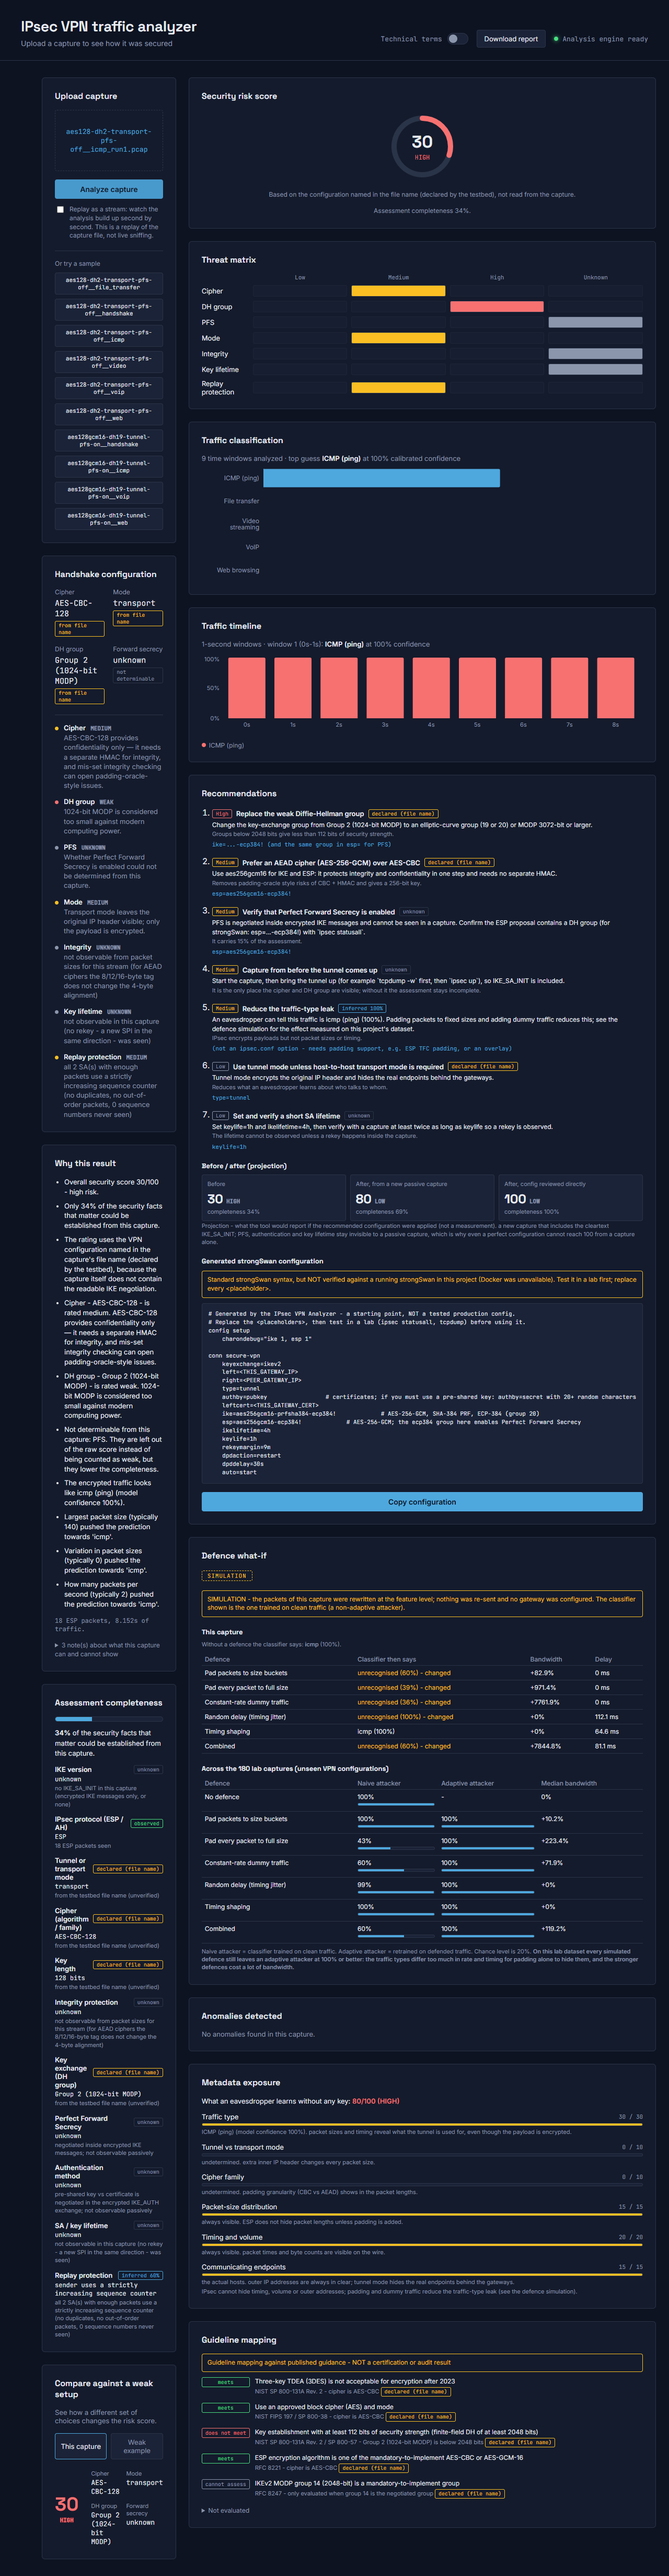
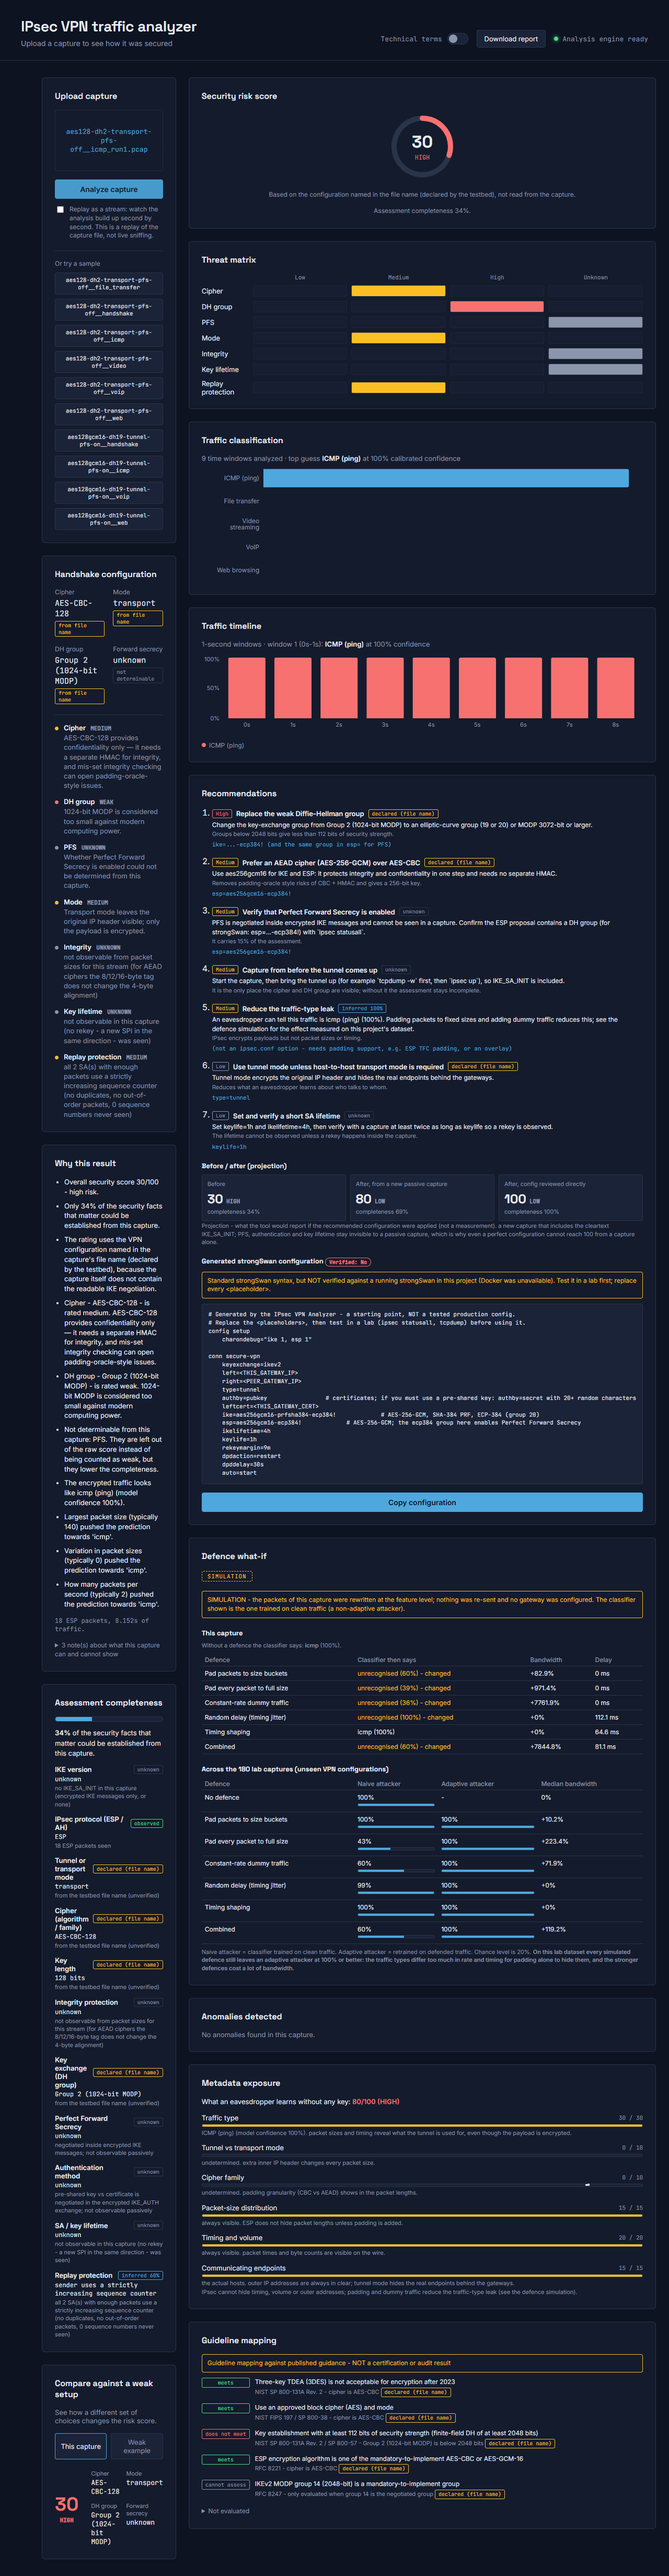
Recommendations panel: add an explicit "Verified: Yes/No" badge next to the generated strongSwan config, reading secure_config.verified directly, alongside the existing prose note; screenshots refreshed

diff --git a/frontend-developer/src/components/RecommendationsPanel.css b/frontend-developer/src/components/RecommendationsPanel.css
@@ -14,4 +14,8 @@
 
 .conf { margin: 0; padding: 12px; overflow-x: auto; font-family: var(--font-mono); font-size: 11px; line-height: 1.45; background: var(--surface-raised); border: 1px solid var(--border); border-radius: 4px; white-space: pre; }
 
+.verified-badge { display: inline-block; font-family: var(--font-mono); font-size: 10px; font-weight: 700; padding: 1px 7px; border-radius: 999px; border: 1px solid; vertical-align: middle; }
+.verified-badge--no { color: var(--risk-high); border-color: var(--risk-high); }
+.verified-badge--yes { color: var(--risk-low); border-color: var(--risk-low); }
+
 @media (max-width: 600px) { .ba { grid-template-columns: 1fr; } }

diff --git a/frontend-developer/src/components/RecommendationsPanel.jsx b/frontend-developer/src/components/RecommendationsPanel.jsx
@@ -72,7 +72,12 @@ export default function RecommendationsPanel({ recommendations }) {
         {ba.label}. {ba.after_passive_capture.assumption}.
       </p>
 
-      <h3 className="recs__sub">Generated strongSwan configuration</h3>
+      <h3 className="recs__sub">
+        Generated strongSwan configuration{" "}
+        <span className={`verified-badge ${cfg.verified ? "verified-badge--yes" : "verified-badge--no"}`}>
+          Verified: {cfg.verified ? "Yes" : "No"}
+        </span>
+      </h3>
       <p className="assess__warn">{cfg.note}</p>
       <pre className="conf">{cfg.text}</pre>
       <button className="panel__button" onClick={copy}>
